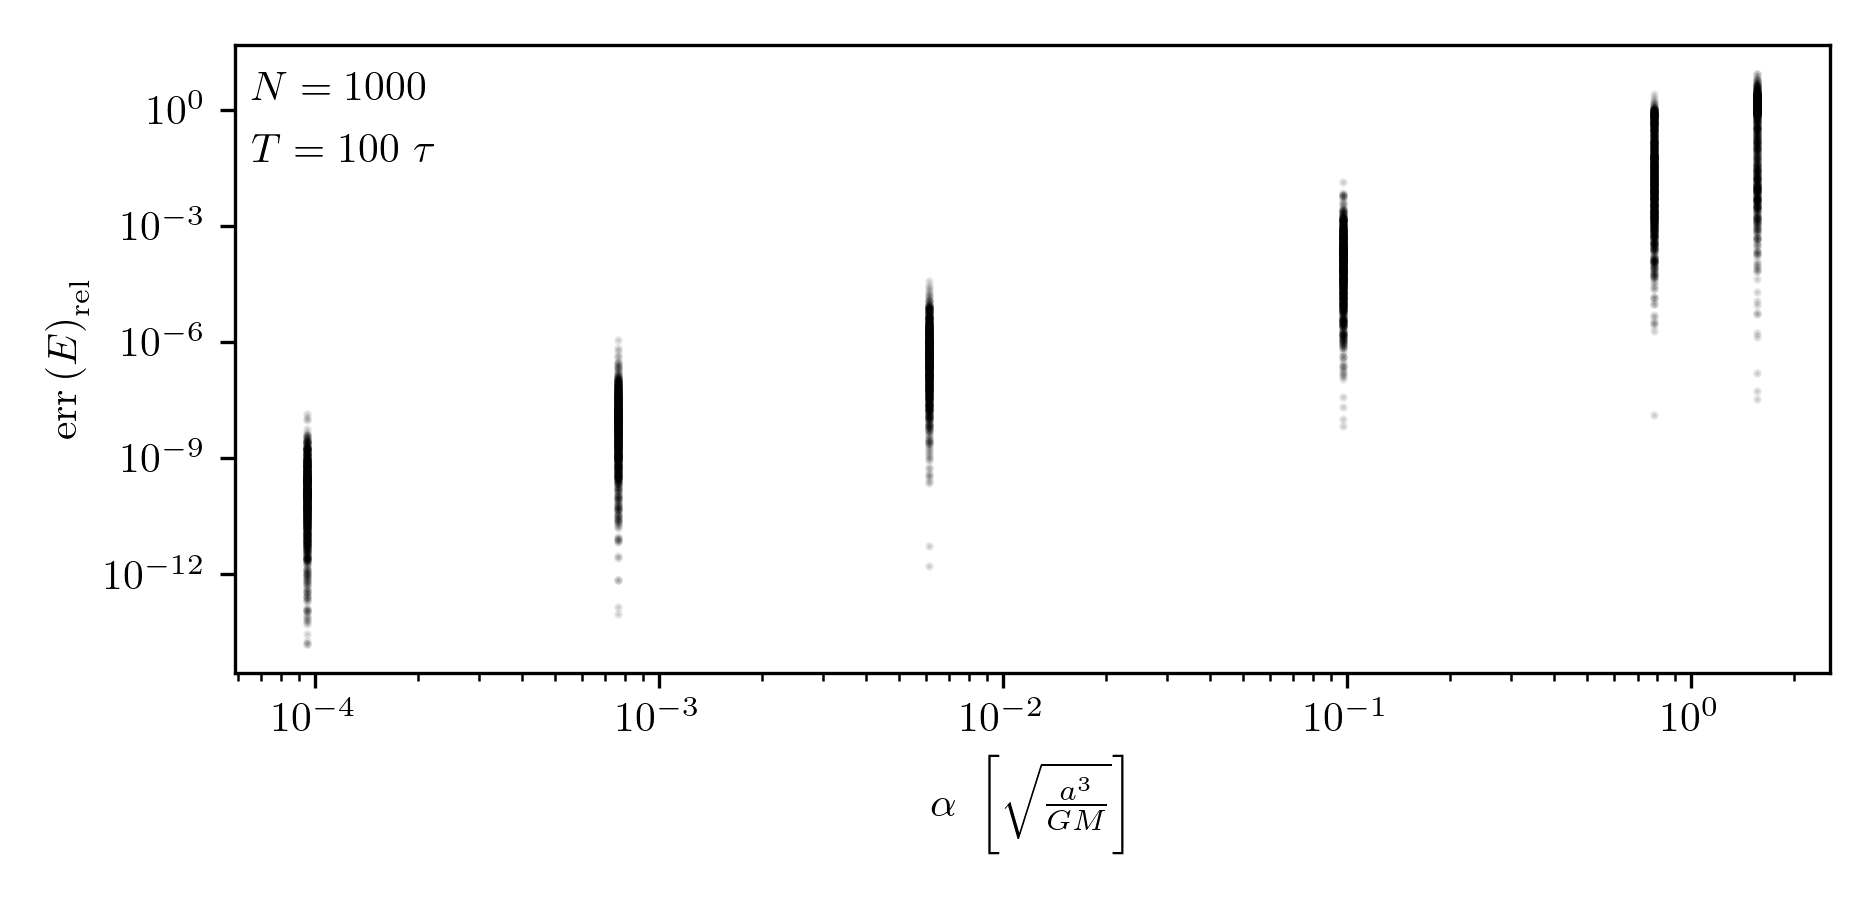
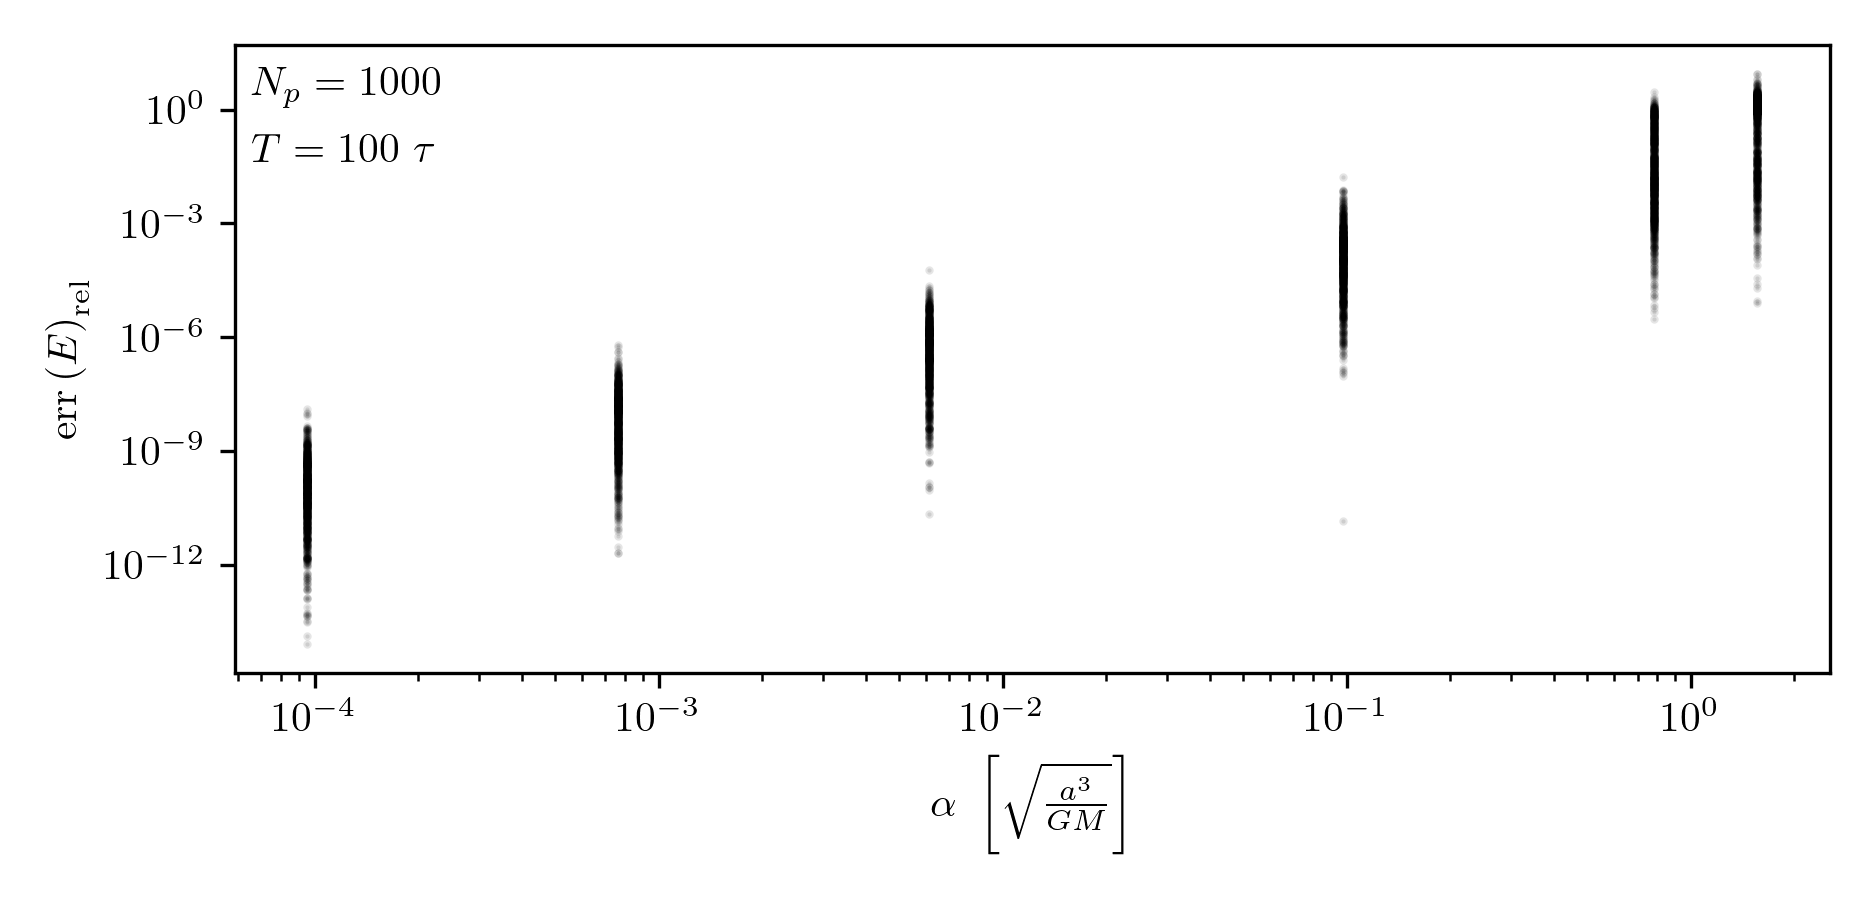
editting text on numerical error

diff --git a/docs/numerics.html b/docs/numerics.html
@@ -974,63 +974,77 @@ times are more stable. The vertical bars indicate selected thresholds.
 Both lists rank clusters by increasing stability, with Gran 1 being the
 least stable and NGC 6229 the most.</figcaption>
 </figure>
-<p>To properly compute the orbits of the star-particles, the timestep
-must be small enough to properly resolve the orbit while it is inside
-the cluster. How should we pick that number? There are two criteria, the
-first is to ensure that the timestep is some fraction of the cluster’s
-dynamical time: <span class="math display">\[\Delta t&#39; = \alpha
-&#39; \tau.\]</span> I mark each with a <em>prime</em> becuase they are
-a trial time-step until the second criteria is also satisfied, which is
-simply that the resultant number of timesteps is an integer: <span
-class="math inline">\(N = \lceil T / \alpha &#39; \tau \rceil\)</span>,
-where <span class="math inline">\(T\)</span> is the total integration
-time. We round-up the number of steps to choose an even smaller
-timestep, which becomes: <span class="math inline">\(\Delta t =
-T/N\)</span>, which also adjusts: <span class="math inline">\(\alpha =
-\tau / \Delta t\)</span>.</p>
-<p>The way I present the experiments in this section, is that I select
-some fractions of each cluster’s dynamical time, and explore the
-resultant numerical error. I wanted to test a wide range of <span
-class="math inline">\(\alpha\)</span>. To do this, I only pick few
-different trial <span class="math inline">\(\alpha &#39;\)</span>, and
-then round each one down so that that the number of steps is not only an
-integer, but also a multiple of 2. This leads to the following
-criterion: <span class="math display">\[N = 2^{k-1}\]</span> where <span
-class="math inline">\(k\)</span> is an integer index <span
-class="math inline">\(k \in [1,2,\dots]\)</span>. The criterion for the
-number of steps becomes: <span class="math display">\[k = \left\lceil
+<p>To properly compute the orbits of the star particles, the timestep
+must be small enough to resolve the orbit accurately while the star is
+inside the cluster. How should we choose this timestep? There are two
+criteria. The first is that the timestep should be some fraction of the
+cluster’s dynamical time: <span class="math display">\[\Delta t&#39; =
+\alpha &#39; \tau.\]</span> I use a prime to indicate that this is a
+trial timestep, since the second criterion must also be satisfied: the
+total number of timesteps should be an integer, <span
+class="math display">\[N = \left\lceil \frac{T}{\alpha&#39; \tau}
+\right\rceil,\]</span> where <span class="math inline">\(T\)</span> is
+the total integration time. We round <span
+class="math inline">\(N\)</span> up to ensure a slightly smaller
+timestep, which becomes <span class="math inline">\(\Delta t =
+T/N\)</span>. This also redefines the effective timestep fraction as
+<span class="math inline">\(\alpha = \Delta t / \tau\)</span>.</p>
+<p>In the experiments presented in this section, I choose several
+fractions of each cluster’s dynamical time and examine the resulting
+numerical errors. To efficiently explore a wide range of <span
+class="math inline">\(\alpha\)</span>, I begin with a few trial values
+of <span class="math inline">\(\alpha&#39;\)</span> and then round the
+number of steps down so that <span class="math inline">\(N\)</span> is
+not only an integer, but also a power of two. This leads to the
+following condition: <span class="math display">\[N = 2^{k-1}\]</span>
+where <span class="math inline">\(k \in \mathbb{N}\)</span> is an
+integer index. The expression for <span class="math inline">\(k\)</span>
+becomes: <span class="math display">\[k = \left\lceil
 \log_2\left(\frac{T}{\alpha &#39;  \tau_\mathrm{dyn}}\right) +
-1  \right\rceil.\]</span></p>
-<p>Now, what is a good <span class="math inline">\(\alpha\)</span> to
-ensure good energy conservation and time-reversability? From Fig. <a
-href="#fig:GCsystemCharacteristicTimes" data-reference-type="ref"
-data-reference="fig:GCsystemCharacteristicTimes">6</a>, we see that the
-typical globular cluster has a crossing time of <span
-class="math inline">\(5\times10^{7}~\mathrm{yr}\)</span>. From Fig. <a
-href="#fig:numericalErrorLeapfrogVanilla" data-reference-type="ref"
-data-reference="fig:numericalErrorLeapfrogVanilla">1</a> that selecting
-a <span class="math inline">\(\Delta t\)</span> of <span
-class="math inline">\(10^{4}~\mathrm{yr}\)</span>, which is <span
-class="math inline">\(2\times 10^{-4}\)</span> that of the crossing
-time, we have conserve energy with a relative error of <span
-class="math inline">\(10^{-8}\)</span>. Then, from Fig. <a
+1  \right\rceil.\]</span> Now, what is a good value of <span
+class="math inline">\(\alpha\)</span> to ensure energy conservation?
+From the analysis presented in the previous sections, I choose
+timestamps without relating them to the crossing times of the globular
+clusters’ orbits. Fig. <a href="#fig:numericalErrorLeapfrogVanilla"
+data-reference-type="ref"
+data-reference="fig:numericalErrorLeapfrogVanilla">1</a> shows that
+<span class="math inline">\(\Delta t = 10^4~\mathrm{yr}\)</span>
+achieves a mean relative energy error of <span
+class="math inline">\(10^{-8}\)</span>. Meanwhile, Fig. <a
 href="#fig:numericalErrorReverseIntegration" data-reference-type="ref"
-data-reference="fig:numericalErrorReverseIntegration">2</a>, we see that
-<span class="math inline">\(\Delta t= 10^{5}~\mathrm{yr}\)</span>
-already converges to the best we can do for time-reversability, which is
-<span class="math inline">\(2\times10^{-3}\)</span> the
-crossing-time.</p>
+data-reference="fig:numericalErrorReverseIntegration">2</a> shows that a
+timestep of <span class="math inline">\(\Delta t =
+10^5~\mathrm{yr}\)</span> already achieves convergence in
+time-reversibility. If we relate these numbers to the mean crossing time
+from Fig. <a href="#fig:GCsystemCharacteristicTimes"
+data-reference-type="ref"
+data-reference="fig:GCsystemCharacteristicTimes">6</a>, we obtain an
+<span class="math inline">\(\alpha\)</span> of about <span
+class="math inline">\(2 \times 10^{-4}\)</span> and <span
+class="math inline">\(2 \times 10^{-3}\)</span>, respectively. In
+Fig. <a href="#fig:numericalErrorStaticPlummerSphereEnergyError"
+data-reference-type="ref"
+data-reference="fig:numericalErrorStaticPlummerSphereEnergyError">8</a>
+I investigate the energy conservation of a normalized plummer sphere
+with trial <span class="math inline">\(\alpha\)</span>’s of <span
+class="math inline">\([10^{-4},10^{-3},10^{-2},10^{-1},1,2]\)</span>.
+This experiment shows that <span class="math inline">\(\alpha\)</span>
+below <span class="math inline">\(10^{-2}\)</span> has excellent energy
+conservation. The experiment compares each star-particle’s final energy
+to it’s initial energy. In this section, we do not study the
+time-reversability, but present it for simulating the full disruption in
+the following section.</p>
 <figure id="fig:numericalErrorStaticPlummerSphereEnergyError">
 <img src="images/numericalErrorStaticPlummerSphereEnergyError.png" />
 <figcaption>The relative error of the energy conservation for a plummer
 sphere with different timesteps. Each sphere was sampled with a the same
-number of particles, <span class="math inline">\(N\)</span>, and
+number of particles, <span class="math inline">\(N_p\)</span>, and
 integrated for the same amount of time, <span
 class="math inline">\(T\)</span>, both of which are indicated on the
 plot. The x-axis is the size of the time-step, <span
 class="math inline">\(\alpha\)</span>, which is the fraction of the
 internal dynamical time, <span class="math inline">\(\tau =
-\sqrt{\frac{a^3}{GM}}\)</span>. </figcaption>
+\sqrt{\frac{a^3}{GM}}\)</span>.</figcaption>
 </figure>
 <h2 id="full-stream-generation">Full stream generation</h2>
 <p>The preceding sections assessed the numerical stability of

diff --git a/chapters/numerics.tex b/chapters/numerics.tex
@@ -288,28 +288,30 @@ This chapter documents how we solve the equations of motion numerically, how we 
             \label{fig:GCsystemStabilityDynamicalTimeRatios}
         \end{figure}
         
-        To properly compute the orbits of the star-particles, the timestep must be small enough to properly resolve the orbit while it is inside the cluster. How should we pick that number? There are two criteria, the first is to ensure that the timestep is some fraction of the cluster's dynamical time:
+        To properly compute the orbits of the star particles, the timestep must be small enough to resolve the orbit accurately while the star is inside the cluster. How should we choose this timestep? There are two criteria. The first is that the timestep should be some fraction of the cluster's dynamical time:
         \begin{equation}
             \Delta t' = \alpha ' \tau.
         \end{equation}
-        I mark each with a \textit{prime} becuase they are a trial time-step until the second criteria is also satisfied, which is simply that the resultant number of timesteps is an integer: $ N = \lceil T / \alpha ' \tau \rceil$, where $T$ is the total integration time. We round-up the number of steps to choose an even smaller timestep, which becomes: $\Delta t = T/N$, which also adjusts: $\alpha = \tau / \Delta t$. 
+        I use a prime to indicate that this is a trial timestep, since the second criterion must also be satisfied: the total number of timesteps should be an integer, 
+        \[
+            N = \left\lceil \frac{T}{\alpha' \tau} \right\rceil,
+        \]
+        where $T$ is the total integration time. We round $N$ up to ensure a slightly smaller timestep, which becomes $\Delta t = T/N$. This also redefines the effective timestep fraction as $\alpha = \Delta t / \tau$.
 
-
-        The way I present the experiments in this section, is that I select some fractions of each cluster's dynamical time, and explore the resultant numerical error. I wanted to test a wide range of $\alpha$. To do this, I only pick few different trial $\alpha '$, and then round each one down so that that the number of steps is not only an integer, but also a multiple of 2. This leads to the following criterion:
+        In the experiments presented in this section, I choose several fractions of each cluster's dynamical time and examine the resulting numerical errors. To efficiently explore a wide range of $\alpha$, I begin with a few trial values of $\alpha'$ and then round the number of steps down so that $N$ is not only an integer, but also a power of two. This leads to the following condition:
         \begin{equation}
             N = 2^{k-1}
         \end{equation}
-        where $k$ is an integer index $ k \in [1,2,\dots]$. The criterion for the number of steps becomes: 
+        where $k \in \mathbb{N}$ is an integer index. The expression for $k$ becomes:
         \begin{equation}
             k = \left\lceil \log_2\left(\frac{T}{\alpha '  \tau_\mathrm{dyn}}\right) + 1  \right\rceil.
         \end{equation}
         
-        Now, what is a good $\alpha$ to ensure good energy conservation and time-reversability? From Fig.~\ref{fig:GCsystemCharacteristicTimes}, we see that the typical globular cluster has a crossing time of $5\times10^{7}~\mathrm{yr}$. From Fig.~\ref{fig:numericalErrorLeapfrogVanilla} that selecting a $\Delta t$ of $10^{4}~\mathrm{yr}$, which is $2\times 10^{-4}$ that of the crossing time, we have conserve energy with a relative error of $10^{-8}$. Then, from Fig.~\ref{fig:numericalErrorReverseIntegration}, we see that $\Delta t= 10^{5}~\mathrm{yr}$ already converges to the best we can do for time-reversability, which is $2\times10^{-3}$ the crossing-time. 
-
+        Now, what is a good value of $\alpha$ to ensure energy conservation? From the analysis presented in the previous sections, I choose timestamps without relating them to the crossing times of the globular clusters' orbits. Fig.~\ref{fig:numericalErrorLeapfrogVanilla} shows that $\Delta t = 10^4~\mathrm{yr}$ achieves a mean relative energy error of $10^{-8}$. Meanwhile, Fig.~\ref{fig:numericalErrorReverseIntegration} shows that a timestep of $\Delta t = 10^5~\mathrm{yr}$ already achieves convergence in time-reversibility. If we relate these numbers to the mean crossing time from Fig.~\ref{fig:GCsystemCharacteristicTimes}, we obtain an $\alpha$ of about $2 \times 10^{-4}$ and $2 \times 10^{-3}$, respectively. In Fig.~\ref{fig:numericalErrorStaticPlummerSphereEnergyError} I investigate the energy conservation of a normalized plummer sphere with trial $\alpha$'s of $[10^{-4},10^{-3},10^{-2},10^{-1},1,2]$. This experiment shows that $\alpha$ below $10^{-2}$ has excellent energy conservation. The experiment compares each star-particle's final energy to it's initial energy. In this section, we do not study the time-reversability, but present it for simulating the full disruption in the following section. 
         \begin{figure}
             \centering
             \includegraphics[width=\linewidth]{images/numericalErrorStaticPlummerSphereEnergyError.png}
-            \caption{The relative error of the energy conservation for a plummer sphere with different timesteps. Each sphere was sampled with a the same number of particles, $N$, and integrated for the same amount of time, $T$, both of which are indicated on the plot. The x-axis is the size of the time-step, $\alpha$, which is the fraction of the internal dynamical time, $\tau = \sqrt{\frac{a^3}{GM}}$. }
+            \caption{The relative error of the energy conservation for a plummer sphere with different timesteps. Each sphere was sampled with a the same number of particles, $N_p$, and integrated for the same amount of time, $T$, both of which are indicated on the plot. The x-axis is the size of the time-step, $\alpha$, which is the fraction of the internal dynamical time, $\tau = \sqrt{\frac{a^3}{GM}}$.}
             \label{fig:numericalErrorStaticPlummerSphereEnergyError}
         \end{figure}
 
